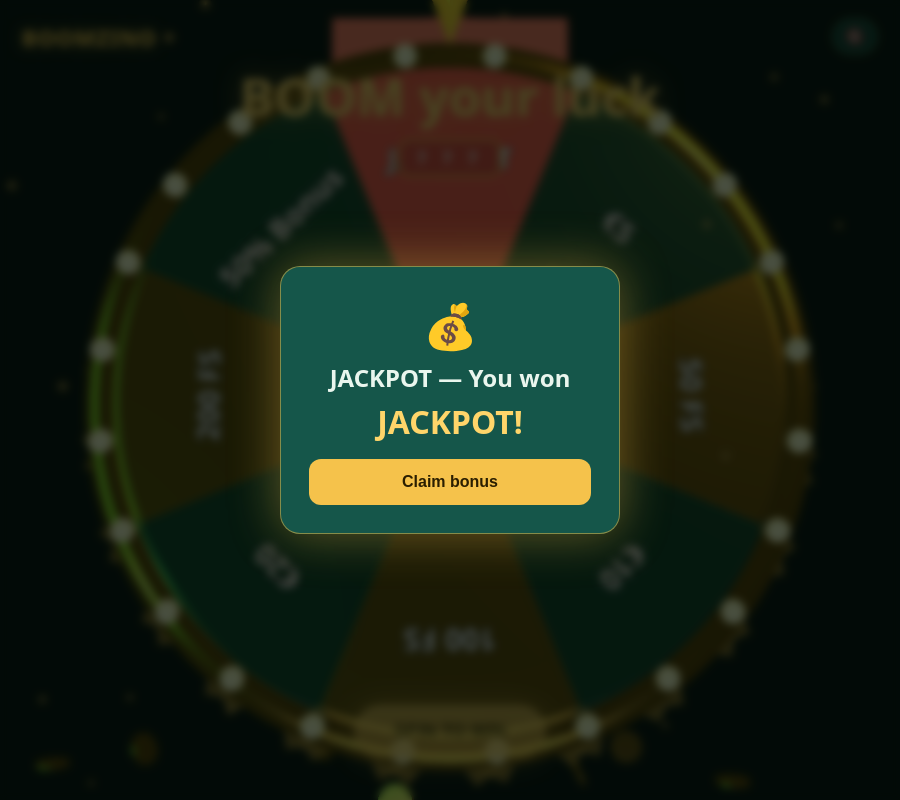
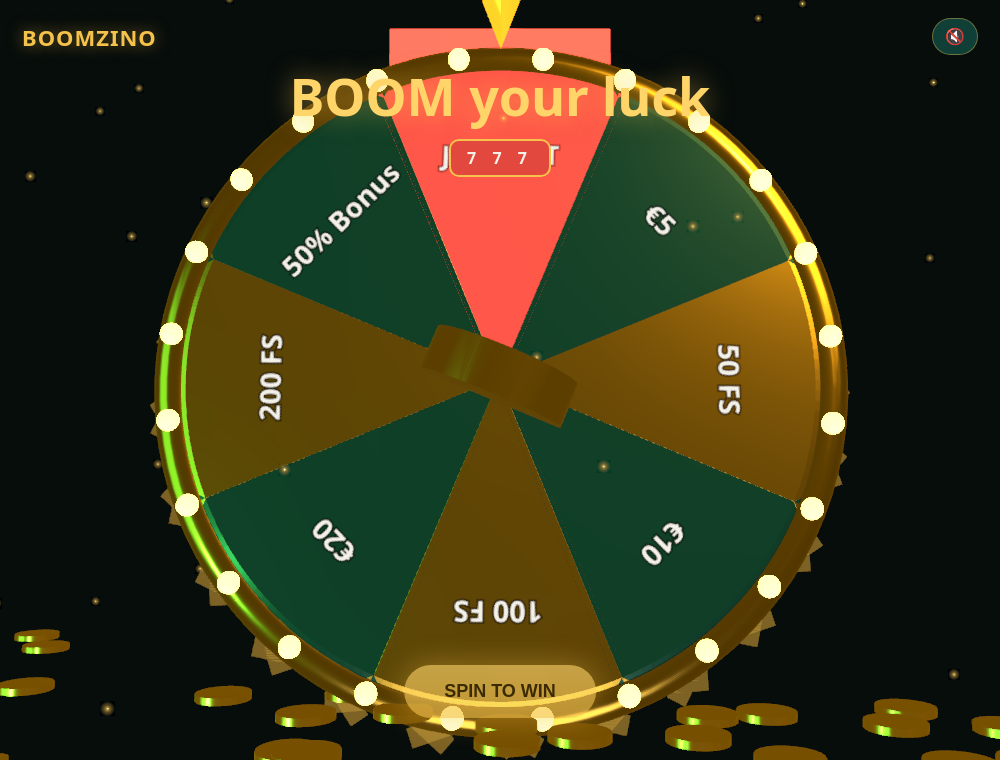
fix: make coin storm visible (hub fountain + in-view floor) and reveal scene behind win modal

diff --git a/components/r3f/CoinStorm.tsx b/components/r3f/CoinStorm.tsx
@@ -1,6 +1,5 @@
 import { Component, useMemo, type ReactNode } from "react";
 import { Physics, RigidBody, CuboidCollider } from "@react-three/rapier";
-import * as THREE from "three";
 
 class Boundary extends Component<{ children: ReactNode }, { failed: boolean }> {
   state = { failed: false };
@@ -9,22 +8,31 @@ class Boundary extends Component<{ children: ReactNode }, { failed: boolean }> {
 }
 
 function Coins({ count }: { count: number }) {
+  // A fountain from the wheel hub: coins erupt radially outward + up + toward the
+  // camera, arc within the frame, then fall and settle on a floor just below the
+  // visible wheel so the pile-up reads on-screen.
   const coins = useMemo(
-    () => Array.from({ length: count }, () => ({
-      pos: [(Math.random() - 0.5) * 1.2, 0.5 + Math.random(), 0.6 + Math.random()] as [number, number, number],
-      vel: [(Math.random() - 0.5) * 6, 6 + Math.random() * 5, (Math.random() - 0.5) * 3] as [number, number, number],
-      rot: [Math.random() * Math.PI, Math.random() * Math.PI, 0] as [number, number, number],
-    })),
+    () => Array.from({ length: count }, () => {
+      const a = Math.random() * Math.PI * 2;
+      const r = 0.2 + Math.random() * 0.7;
+      return {
+        pos: [Math.cos(a) * r, 0.2 + Math.random() * 0.6, 0.9 + Math.random() * 0.7] as [number, number, number],
+        vel: [Math.cos(a) * (2 + Math.random() * 3), 4 + Math.random() * 4, 0.5 + Math.random() * 1.6] as [number, number, number],
+        rot: [Math.random() * Math.PI, Math.random() * Math.PI, 0] as [number, number, number],
+        spin: [Math.random() * 6, 8, 4] as [number, number, number],
+      };
+    }),
     [count]
   );
   return (
-    <Physics gravity={[0, -16, 0]}>
-      <CuboidCollider args={[12, 0.5, 12]} position={[0, -4, 0]} />
+    <Physics gravity={[0, -24, 0]}>
+      {/* floor just below the visible wheel bottom so coins pile up on-screen */}
+      <CuboidCollider args={[14, 0.5, 6]} position={[0, -2.7, 0]} />
       {coins.map((c, i) => (
-        <RigidBody key={i} position={c.pos} rotation={c.rot} linearVelocity={c.vel} angularVelocity={[0, 8, 4]} colliders="hull" restitution={0.4}>
+        <RigidBody key={i} position={c.pos} rotation={c.rot} linearVelocity={c.vel} angularVelocity={c.spin} colliders="hull" restitution={0.45} friction={0.6}>
           <mesh>
-            <cylinderGeometry args={[0.16, 0.16, 0.04, 20]} />
-            <meshStandardMaterial color="#FFD56A" metalness={1} roughness={0.25} emissive="#5a3d00" emissiveIntensity={0.8} />
+            <cylinderGeometry args={[0.19, 0.19, 0.05, 22]} />
+            <meshStandardMaterial color="#FFD56A" metalness={1} roughness={0.22} emissive="#7a5200" emissiveIntensity={0.9} />
           </mesh>
         </RigidBody>
       ))}

diff --git a/components/r3f/JackpotVaultScene.tsx b/components/r3f/JackpotVaultScene.tsx
@@ -62,6 +62,13 @@ export function JackpotVaultScene() {
   const rotationRef = useRef(0);
   const [status, setStatus] = useState<SpinStatus>("idle");
   const [muted, setMuted] = useState(true);
+  const [modalOpen, setModalOpen] = useState(false);
+  // On win, let the coin storm play for a beat before the modal fades in (instant under reduced motion).
+  useEffect(() => {
+    if (status !== "won") { setModalOpen(false); return; }
+    const t = setTimeout(() => setModalOpen(true), reduced ? 0 : 1100);
+    return () => clearTimeout(t);
+  }, [status, reduced]);
   const controller = useMemo(
     () => createSpinController({ winningIndex: 7, durationMs: reduced ? 250 : 4500, turns: reduced ? 0 : 6 }),
     [reduced]
@@ -113,7 +120,7 @@ export function JackpotVaultScene() {
       </Canvas>
 
       <JackpotVaultOverlay
-        status={status} muted={muted}
+        status={status} muted={muted} modalOpen={modalOpen}
         onSpin={onSpin} onToggleSound={onToggleSound} onClaim={onClaim}
       />
     </div>

diff --git a/components/r3f/JackpotVaultOverlay.tsx b/components/r3f/JackpotVaultOverlay.tsx
@@ -2,10 +2,11 @@ import css from "./jackpotVault.module.css";
 import type { SpinStatus } from "./spinController";
 
 export function JackpotVaultOverlay({
-  status, muted, onSpin, onToggleSound, onClaim,
+  status, muted, modalOpen, onSpin, onToggleSound, onClaim,
 }: {
   status: SpinStatus;
   muted: boolean;
+  modalOpen: boolean;
   onSpin: () => void;
   onToggleSound: () => void;
   onClaim: () => void;
@@ -28,7 +29,7 @@ export function JackpotVaultOverlay({
       >
         {status === "spinning" ? "SPINNING…" : "SPIN TO WIN"}
       </button>
-      <div className={css.win} data-testid="win-modal" hidden={status !== "won"}>
+      <div className={css.win} data-testid="win-modal" hidden={!modalOpen}>
         <div className={css.card} data-pe>
           <div style={{ fontSize: 44 }}>💰</div>
           <h2>JACKPOT — You won</h2>

diff --git a/components/r3f/jackpotVault.module.css b/components/r3f/jackpotVault.module.css
@@ -8,7 +8,8 @@
 .banner { display: inline-block; margin-top: 8px; padding: 6px 16px; border-radius: 10px; background: #E2483D; color: #F4F1E8; font-weight: 800; letter-spacing: 6px; border: 2px solid #F5C24B; }
 .cta { position: absolute; left: 50%; bottom: 42px; transform: translateX(-50%); padding: 16px 40px; border-radius: 999px; border: none; background: linear-gradient(180deg, #FFD56A, #F5C24B); color: #2a1e00; font-weight: 800; font-size: 18px; cursor: pointer; box-shadow: 0 0 30px rgba(245,194,75,.6); }
 .cta:disabled { opacity: .65; cursor: default; }
-.win { position: fixed; inset: 0; display: grid; place-items: center; background: rgba(2,10,6,.72); backdrop-filter: blur(4px); }
+.win { position: fixed; inset: 0; display: grid; place-items: center; background: rgba(2,10,6,.40); backdrop-filter: blur(2px); animation: winfade .4s ease both; }
+@keyframes winfade { from { opacity: 0; } to { opacity: 1; } }
 .win[hidden] { display: none !important; }
 .card { width: min(340px, 86vw); text-align: center; padding: 28px; border-radius: 20px; background: #15564A; border: 1px solid rgba(245,194,75,.5); box-shadow: 0 0 50px rgba(245,194,75,.4); }
 .card h2 { margin: 6px 0; } .prize { color: #FFD56A; font-size: 32px; font-weight: 800; }